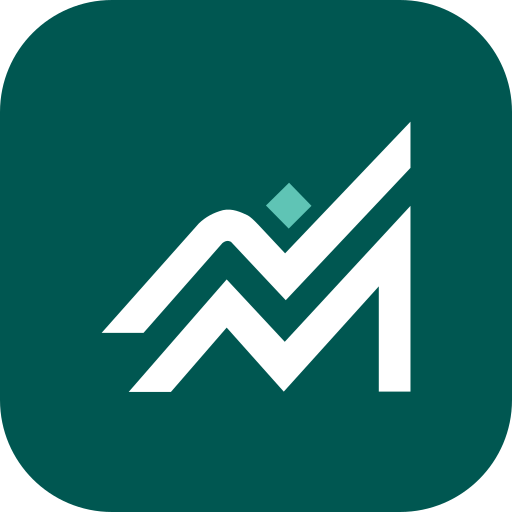
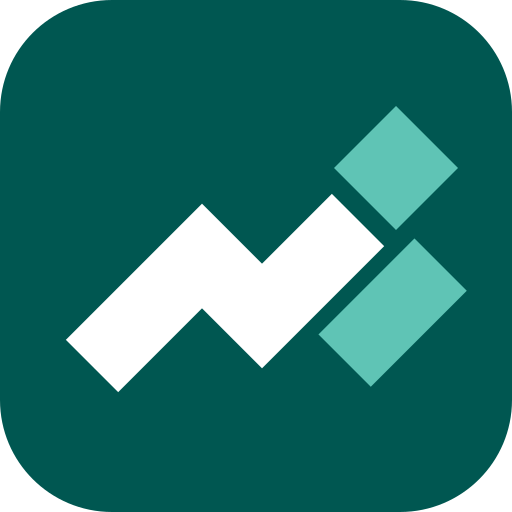
feat(brand): the MYSYS mark tells the customer's road, the team beside it, the system ahead
The zigzag is the customer's road, rising and falling. Beside it, as thick and a step ahead, runs a
mint line: the team that walks with the customer and guides them. Ahead of both is the gem: the
system, in the team's colour because the team is the system's.

Every icon is rendered again from it: the favicon, the iPhone, PWA and maskable icons, the boot
splash, the home button (teal with a deeper mint on white) and the loading tile.

Changed region(s): [[0.125, 0.1875, 0.9062, 0.7812]]

diff --git a/advanced_workspace/public/js/advanced_workspace/markup.js b/advanced_workspace/public/js/advanced_workspace/markup.js
@@ -2,7 +2,7 @@
 export const HTML = `
 <div class="aw">
   <header class="aw-top">
-    <button class="aw-logo" data-go-home data-t-title="Home"><svg viewBox="100 150 976 866" aria-hidden="true"><path fill="#005751" d="M120 816L415 484C435 465 458 452 488 444C516 438 542 450 563 460C580 470 596 490 676 575L1056 176V316L678 717L512 540C504 536 496 536 486 544L247 816Z"/><path fill="#005751" d="M202 995H330L499 800L672 994L960 675V994H1056V431L675 843L499 654Z"/><path fill="#5fc4b5" d="M688 361L756 431L687 500L618 430Z"/></svg></button>
+    <button class="aw-logo" data-go-home data-t-title="Home"><svg viewBox="60 100 414 298" aria-hidden="true"><g transform="translate(-6 -32)"><path d="M98 398 L208 288 L268 348 L364 252" fill="none" stroke="#005751" stroke-width="74" stroke-linejoin="miter" stroke-miterlimit="10"/><path d="M350.6 392.6 L446.6 296.6" fill="none" stroke="#12a08c" stroke-width="74"/><path fill="#12a08c" d="M402 138L464 200L402 262L340 200Z"/></g></svg></button>
     <button class="aw-menu-btn" data-toggle data-t-title="Menu"><svg viewBox="0 0 24 24"><path d="M4 6h16M4 12h16M4 18h16"/></svg></button>
     <button class="aw-search" data-search>
       <svg viewBox="0 0 24 24"><circle cx="11" cy="11" r="7"/><path d="M21 21l-4.3-4.3"/></svg>
@@ -27,7 +27,7 @@ export const HTML = `
       <div class="aw-side-head"><svg viewBox="0 0 24 24"><path d="M6 9l6 6 6-6"/></svg><span data-t="Main Menu"></span></div>
       <nav data-nav data-t-label="Modules"></nav>
     </aside>
-    <main class="aw-main" data-main><div class="aw-loading" role="status"><span class="aw-loading-mark"><svg viewBox="0 0 512 512" aria-hidden="true"><rect width="512" height="512" rx="112" fill="#005751"/><g transform="translate(95 114.1) scale(0.33) translate(-100 -150)"><path fill="#fff" d="M120 816L415 484C435 465 458 452 488 444C516 438 542 450 563 460C580 470 596 490 676 575L1056 176V316L678 717L512 540C504 536 496 536 486 544L247 816Z"/><path fill="#fff" d="M202 995H330L499 800L672 994L960 675V994H1056V431L675 843L499 654Z"/><path fill="#5fc4b5" d="M688 361L756 431L687 500L618 430Z"/></g></svg></span><span data-t="Loading"></span></div></main>
+    <main class="aw-main" data-main><div class="aw-loading" role="status"><span class="aw-loading-mark"><svg viewBox="0 0 512 512" aria-hidden="true"><rect width="512" height="512" rx="112" fill="#005751"/><g transform="translate(-6 -32)"><path d="M98 398 L208 288 L268 348 L364 252" fill="none" stroke="#fff" stroke-width="74" stroke-linejoin="miter" stroke-miterlimit="10"/><path d="M350.6 392.6 L446.6 296.6" fill="none" stroke="#5fc4b5" stroke-width="74"/><path fill="#5fc4b5" d="M402 138L464 200L402 262L340 200Z"/></g></svg></span><span data-t="Loading"></span></div></main>
   </div>
 </div>
 `;
@@ -41,7 +41,7 @@ export const CSS = `
 .aw-top { display: flex; align-items: center; height: 42px; flex: none; gap: 14px; padding: 0 14px; background: var(--aw-chrome, #005751); color: #fff; }
 /* the MYSYS mark in the workspace's teal, on a white tile (.aw button would clear the tile) */
 .aw .aw-logo { width: 30px; height: 30px; display: grid; place-items: center; flex: none; background: #fff; border-radius: 7px; }
-.aw .aw-logo svg { width: 22px; height: 20px; stroke: none; }
+.aw .aw-logo svg { width: 24px; height: 18px; stroke: none; }
 .aw-menu-btn { display: grid; place-items: center; width: 30px; height: 30px; flex: none; }
 .aw-search { position: relative; display: flex; align-items: center; gap: 10px; flex: 0 1 300px; min-width: 0; height: 28px; padding: 0 10px; border-radius: 8px; background: #003f3a; border: 1px solid #1d7069; }
 .aw-search svg { width: 16px; height: 16px; }
